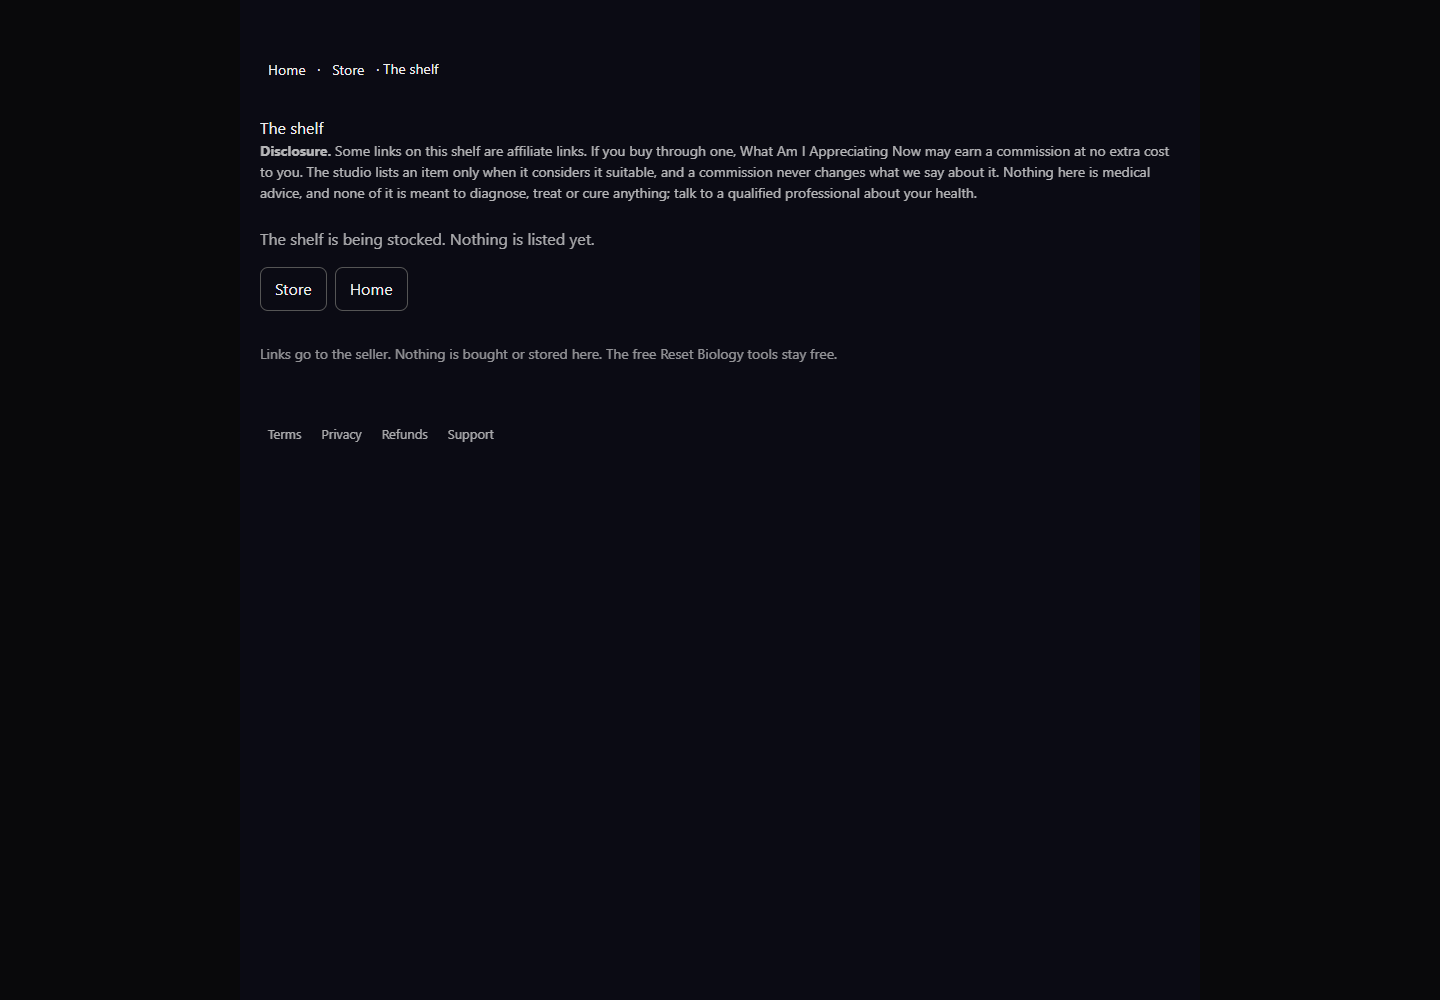
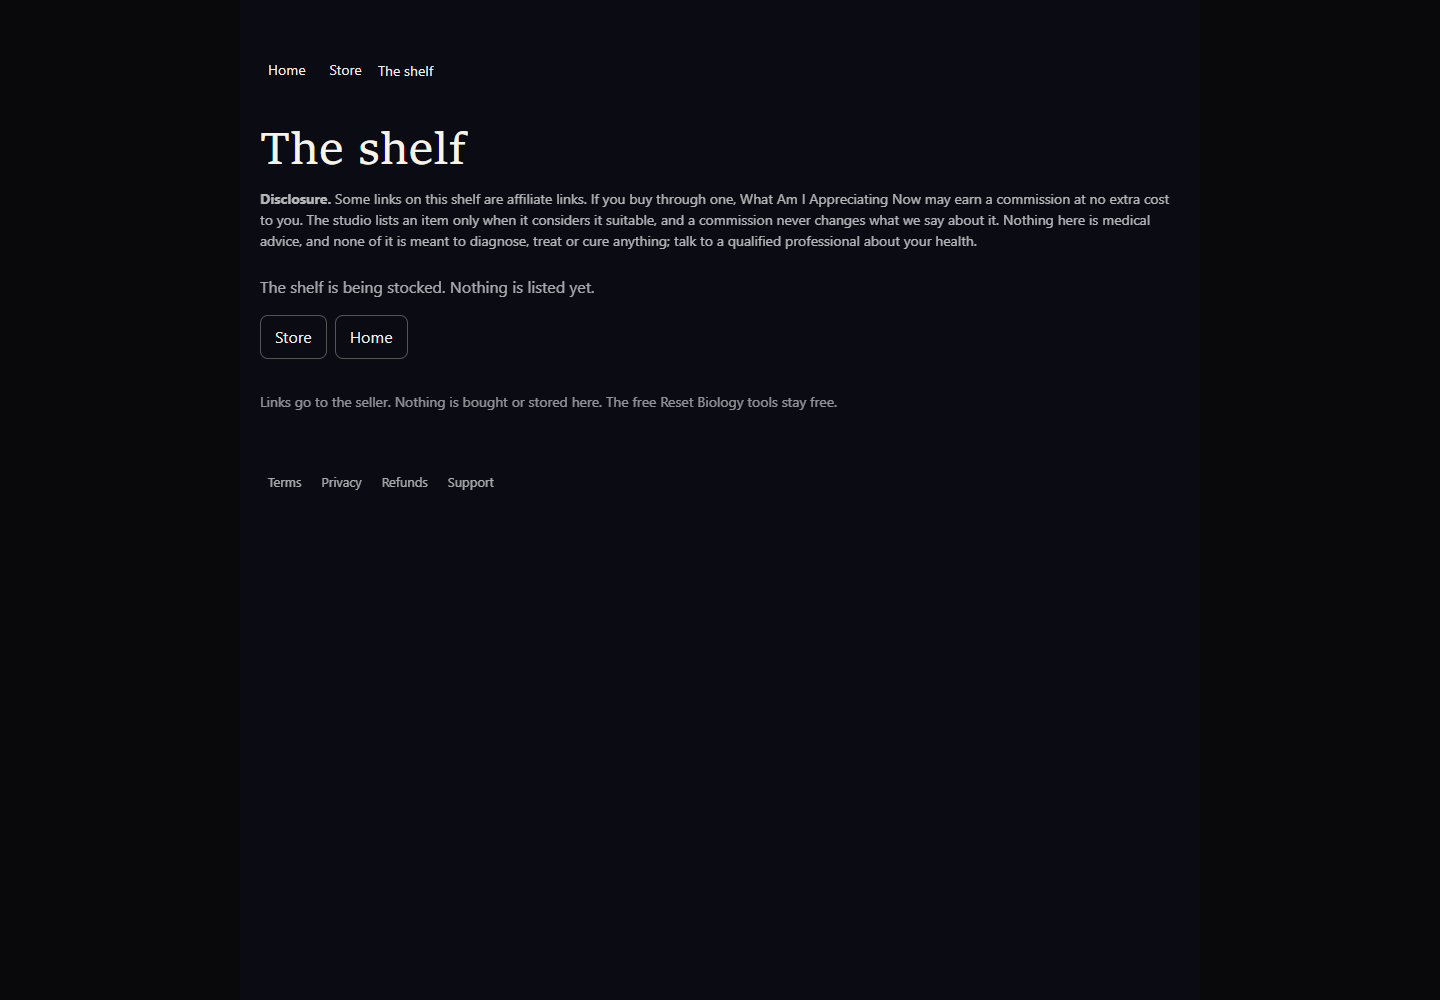
fix(waia): polish store handoff
Claude-Session: https://claude.ai/code/session_01QwUeFZBaQq6HvUEKRg1tbb

diff --git a/public/waia-store-support.js b/public/waia-store-support.js
@@ -20,12 +20,36 @@
   var form = document.getElementById('intake-form');
   if (!form) return;
   var out = document.getElementById('intake-echo');
-  function show(heading, lines, link) {
+  function show(heading, lines, link, reference) {
     out.textContent = '';
     var h = document.createElement('h3');
     h.textContent = heading;
     out.appendChild(h);
     lines.forEach(function (t) { var p = document.createElement('p'); p.textContent = t; out.appendChild(p); });
+    if (reference) {
+      var referenceLine = document.createElement('p');
+      referenceLine.append('Keep this reference to check on your request: ');
+      var code = document.createElement('code');
+      code.textContent = reference;
+      referenceLine.appendChild(code);
+      var copy = document.createElement('button');
+      copy.type = 'button'; copy.className = 'copy-reference'; copy.textContent = 'Copy reference';
+      copy.addEventListener('click', function () {
+        var selectReference = function () {
+          var range = document.createRange();
+          range.selectNodeContents(code);
+          var selection = window.getSelection();
+          selection.removeAllRanges(); selection.addRange(range);
+        };
+        if (!navigator.clipboard || !navigator.clipboard.writeText) { selectReference(); return; }
+        navigator.clipboard.writeText(reference).then(function () {
+          copy.textContent = 'Copied';
+          window.setTimeout(function () { copy.textContent = 'Copy reference'; }, 2000);
+        }).catch(selectReference);
+      });
+      referenceLine.appendChild(copy);
+      out.appendChild(referenceLine);
+    }
     if (link) {
       var a = document.createElement('a');
       a.href = link; a.textContent = 'Check on your request';
@@ -52,9 +76,8 @@
       if (!res.ok) { show('Not yet', [res.body.error || 'That did not go through. Please try again.']); return; }
       form.reset();
       show('Request received', [r.kind + ': ' + r.details,
-        'Keep this reference to check on your request: ' + res.body.reference,
         'Nothing has been charged. You will see a quote there when one is ready, and you can accept or decline it.'],
-        '/store/custom-order#ref=' + encodeURIComponent(res.body.reference));
+        '/store/custom-order#ref=' + encodeURIComponent(res.body.reference), res.body.reference);
     }).catch(function () { show('Not yet', ['That did not go through. Please try again.']); });
   });
 })(typeof window !== 'undefined' ? window : globalThis);

diff --git a/public/waia-store.html b/public/waia-store.html
@@ -113,9 +113,12 @@
   .intake button { margin-top: 1rem; background: var(--gold); color: var(--ground-deep); border: 0; border-radius: 999px; padding: 0.6rem 1.4rem; font: inherit; cursor: pointer; }
   .intake .echo { margin-top: 1rem; border-top: 1px solid #ffffff14; padding-top: 0.8rem; white-space: pre-wrap; overflow-wrap: anywhere; }
   .intake .echo h3 { margin: 0; font-family: var(--display); font-weight: 400; color: var(--ink-bright); }
+  .intake .copy-reference { min-height: 44px; margin-left: 0.5rem; }
   .fine { font-size: 0.82rem; color: var(--ink-dim); }
   .proposed-price { display: var(--proposed-price-display); }
   .footer-links { display: flex; flex-wrap: wrap; justify-content: center; gap: 0 0.35rem; }
+  .outbound-links { display: flex; flex-wrap: wrap; gap: 0 0.35rem; }
+  .outbound-links a { display: inline-block; min-height: 44px; padding: 10px 8px; line-height: 24px; vertical-align: middle; }
 </style>
 </head>
 <body data-waia-page="store">
@@ -186,7 +189,7 @@
   <section id="free-tools">
     <h2>Free tools from Reset Biology</h2>
     <p><a href="https://resetbiology.com/" rel="noopener" data-crosslink="reset-biology">Reset Biology</a> offers a peptide tracker and self-help tools that are free and stay free. It takes no money, and nothing on it is sold from this page.</p>
-    <p><a href="https://resetbiology.com/" rel="noopener" data-crosslink="reset-biology">Visit Reset Biology</a> &middot; <a href="https://resetbiology.com/education" rel="noopener" data-crosslink="reset-biology-education">Reset Biology education</a></p>
+    <p class="outbound-links"><a href="https://resetbiology.com/" rel="noopener" data-crosslink="reset-biology">Visit Reset Biology</a><a href="https://resetbiology.com/education" rel="noopener" data-crosslink="reset-biology-education">Reset Biology education</a></p>
     <p class="fine">These are plain outbound links to a separate site. What Am I Appreciating Now earns nothing from them.</p>
   </section>
 

diff --git a/src/app/patrons/page.tsx b/src/app/patrons/page.tsx
@@ -23,8 +23,9 @@ export default async function PatronsPage() {
   const shell = { maxWidth: 720, margin: '0 auto', padding: '48px 20px', color: '#eee', background: '#0b0b14', minHeight: '100vh', fontFamily: 'system-ui, sans-serif' } as const;
   return (
     <main style={shell}>
-      <nav aria-label="Site navigation" style={{ fontSize: 14, marginBottom: 24 }}>
-        <a href="/" style={{ color: 'inherit' }}>Home</a> · <a href="/store" style={{ color: 'inherit' }}>Store</a>
+      <nav aria-label="Site navigation" style={{ alignItems: 'center', display: 'flex', flexWrap: 'wrap', fontSize: 14, gap: 8, marginBottom: 24 }}>
+        <a href="/" style={{ color: 'inherit' }}>Home</a>
+        <a href="/store" style={{ color: 'inherit' }}>Store</a>
       </nav>
       <h1>Patron wall</h1>
       {/* Copy v2 (Voss/NEPQ, 2026-10-19): NEPQ situation question opens on the reader, then the fact. v1: docs/COPY-V2-VOSS-NEPQ-2026-10-19.md */}
@@ -53,7 +54,7 @@ export default async function PatronsPage() {
       ))}
       {/* Technique: Voss no-oriented question before the link, so "no" stays a safe answer. */}
       <p>Would you be opposed to seeing your own name behind the orb?</p>
-      <p><a href="/patrons/join" style={{ color: '#c9b3ff' }}>Add your name</a> · <a href="/patrons/remove" style={{ color: '#c9b3ff' }}>Remove my name</a></p>
+      <p style={{ display: 'flex', flexWrap: 'wrap', gap: 8 }}><a href="/patrons/join" style={{ color: '#c9b3ff' }}>Add your name</a><a href="/patrons/remove" style={{ color: '#c9b3ff' }}>Remove my name</a></p>
     </main>
   );
 }

diff --git a/src/app/about/page.tsx b/src/app/about/page.tsx
@@ -9,8 +9,9 @@ export const metadata = {
 export default function AboutPage() {
   return (
     <main style={{ maxWidth: 720, margin: '0 auto', padding: '48px 20px', color: '#eee', background: '#0b0b14', minHeight: '100vh', fontFamily: 'system-ui, sans-serif' }}>
-      <nav aria-label="Site navigation" style={{ fontSize: 14, marginBottom: 24 }}>
-        <a href="/" style={{ color: 'inherit' }}>Home</a> · <a href="/store" style={{ color: 'inherit' }}>Store</a>
+      <nav aria-label="Site navigation" style={{ alignItems: 'center', display: 'flex', flexWrap: 'wrap', fontSize: 14, gap: 8, marginBottom: 24 }}>
+        <a href="/" style={{ color: 'inherit' }}>Home</a>
+        <a href="/store" style={{ color: 'inherit' }}>Store</a>
       </nav>
       <p><a href="/" style={{ color: 'inherit' }}>← What Am I Appreciating Now</a></p>
       <h1>About</h1>
@@ -22,8 +23,8 @@ export default function AboutPage() {
         Email <a href={`mailto:${OPERATOR.contact}`} style={{ color: '#9cf' }}>{OPERATOR.contact}</a> with any question about the
         site, a purchase, a refund or your data.
       </p>
-      <p style={{ fontSize: 14, opacity: 0.7 }}>
-        <a href="/store" style={{ color: 'inherit' }}>Store</a> · <a href="/programs" style={{ color: 'inherit' }}>Programs</a>
+      <p style={{ display: 'flex', flexWrap: 'wrap', fontSize: 14, gap: 8, opacity: 0.7 }}>
+        <a href="/store" style={{ color: 'inherit' }}>Store</a><a href="/programs" style={{ color: 'inherit' }}>Programs</a>
       </p>
       <LegalLinks />
     </main>

diff --git a/src/app/store/shelf/page.tsx b/src/app/store/shelf/page.tsx
@@ -26,10 +26,12 @@ export default function ShelfPage() {
   const items = renderableItems(SHELF_ITEMS);
   return (
     <main style={{ maxWidth: 960, margin: '0 auto', padding: '48px 20px', color: '#eee', background: '#0b0b14', minHeight: '100vh', fontFamily: 'system-ui, sans-serif' }}>
-      <nav aria-label="Site navigation" style={{ fontSize: 14, marginBottom: 24 }}>
-        <a href="/" style={NAV_LINK_STYLE}>Home</a> · <a href="/store" style={NAV_LINK_STYLE}>Store</a> · <span aria-current="page">The shelf</span>
+      <nav aria-label="Site navigation" style={{ alignItems: 'center', display: 'flex', flexWrap: 'wrap', fontSize: 14, gap: 8, marginBottom: 24 }}>
+        <a href="/" style={NAV_LINK_STYLE}>Home</a>
+        <a href="/store" style={NAV_LINK_STYLE}>Store</a>
+        <span aria-current="page">The shelf</span>
       </nav>
-      <h1>The shelf</h1>
+      <h1 style={{ color: '#f7f3e6', fontFamily: '"Iowan Old Style", "Sitka Text", Georgia, "Times New Roman", serif', fontSize: 'clamp(1.9rem, 5vw, 3rem)', fontWeight: 400, margin: 0 }}>The shelf</h1>
       {(items.length === 0 || shelfHasCommission(items)) && (
         <p style={{ fontSize: 14, opacity: 0.75, marginBottom: 24 }} id="disclosure"><strong>Disclosure.</strong> {DISCLOSURE}</p>
       )}

diff --git a/src/app/listen/page.tsx b/src/app/listen/page.tsx
@@ -21,7 +21,7 @@ export default function ListenPage() {
         Not medical advice or therapy. Do not listen while driving, operating machinery, or anywhere you need to stay alert. Voice: Jonathan Hyatt&rsquo;s own, rendered from his recordings with a voice clone.
         Words: Reset Biology, &ldquo;Reset Your Relationship with Food&rdquo;.
       </p>
-      <p style={{ marginTop: 24 }}><a href="/" style={{ ...NAV_LINK_STYLE, boxSizing: 'border-box', color: '#cf9d4f' }}>Back to home</a> · <a href="/programs/advanced-hypnosis-sessions" style={{ ...NAV_LINK_STYLE, boxSizing: 'border-box', color: '#cf9d4f' }}>The video version</a></p>
+      <p style={{ display: 'flex', flexWrap: 'wrap', gap: 8, marginTop: 24 }}><a href="/" style={{ ...NAV_LINK_STYLE, boxSizing: 'border-box', color: '#cf9d4f' }}>Back to home</a><a href="/programs/advanced-hypnosis-sessions" style={{ ...NAV_LINK_STYLE, boxSizing: 'border-box', color: '#cf9d4f' }}>The video version</a></p>
       <WaiaFooter />
     </main>
   );

diff --git a/src/app/patrons/remove/page.tsx b/src/app/patrons/remove/page.tsx
@@ -9,8 +9,9 @@ export default function RemovePage() {
   const field = { display: 'block', width: '100%', padding: 10, margin: '6px 0 16px', background: '#14142a', color: '#eee', border: '1px solid #8c8c9e', borderRadius: 8 } as const;
   return (
     <main style={{ maxWidth: 720, margin: '0 auto', padding: '48px 20px', color: '#eee', background: '#0b0b14', minHeight: '100vh', fontFamily: 'system-ui, sans-serif' }}>
-      <nav aria-label="Site navigation" style={{ fontSize: 14, marginBottom: 24 }}>
-        <a href="/" style={{ color: 'inherit' }}>Home</a> · <a href="/store" style={{ color: 'inherit' }}>Store</a>
+      <nav aria-label="Site navigation" style={{ alignItems: 'center', display: 'flex', flexWrap: 'wrap', fontSize: 14, gap: 8, marginBottom: 24 }}>
+        <a href="/" style={{ color: 'inherit' }}>Home</a>
+        <a href="/store" style={{ color: 'inherit' }}>Store</a>
       </nav>
       <h1>Remove my name from the patron wall</h1>
       <div role="status">

diff --git a/src/app/not-found.tsx b/src/app/not-found.tsx
@@ -1,8 +1,10 @@
 export default function NotFound() {
   return (
     <main style={{ maxWidth: 720, margin: '0 auto', padding: '48px 20px', color: '#eee', background: '#0b0b14', minHeight: '100vh', fontFamily: 'system-ui, sans-serif', lineHeight: 1.6 }}>
-      <nav aria-label="Site navigation" style={{ fontSize: 14, marginBottom: 48 }}>
-        <a href="/" style={{ color: 'inherit' }}>Home</a> · <a href="/store" style={{ color: 'inherit' }}>Store</a> · <a href="/support" style={{ color: 'inherit' }}>Support</a>
+      <nav aria-label="Site navigation" style={{ alignItems: 'center', display: 'flex', flexWrap: 'wrap', fontSize: 14, gap: 8, marginBottom: 48 }}>
+        <a href="/" style={{ color: 'inherit' }}>Home</a>
+        <a href="/store" style={{ color: 'inherit' }}>Store</a>
+        <a href="/support" style={{ color: 'inherit' }}>Support</a>
       </nav>
       <p style={{ fontSize: 14, opacity: 0.7 }}>What Am I Appreciating Now</p>
       <h1>Page not found</h1>

diff --git a/src/app/patrons/join/page.tsx b/src/app/patrons/join/page.tsx
@@ -10,8 +10,9 @@ export const metadata = {
 export default function JoinPage() {
   return (
     <main style={{ maxWidth: 720, margin: '0 auto', padding: '48px 20px', color: '#eee', background: '#0b0b14', minHeight: '100vh', fontFamily: 'system-ui, sans-serif' }}>
-      <nav aria-label="Site navigation" style={{ fontSize: 14, marginBottom: 24 }}>
-        <a href="/" style={{ color: 'inherit' }}>Home</a> · <a href="/store" style={{ color: 'inherit' }}>Store</a>
+      <nav aria-label="Site navigation" style={{ alignItems: 'center', display: 'flex', flexWrap: 'wrap', fontSize: 14, gap: 8, marginBottom: 24 }}>
+        <a href="/" style={{ color: 'inherit' }}>Home</a>
+        <a href="/store" style={{ color: 'inherit' }}>Store</a>
       </nav>
       <h1>Join the patron wall</h1>
       {/* Copy v2 (Voss/NEPQ, 2026-10-19): calibrated "which" question opens on the reader; the steps follow. v1: docs/COPY-V2-VOSS-NEPQ-2026-10-19.md */}

diff --git a/src/app/store/bundles/page.tsx b/src/app/store/bundles/page.tsx
@@ -12,8 +12,9 @@ export const metadata = {
 export default function BundlesPage() {
   return (
     <main style={{ maxWidth: 720, margin: '0 auto', padding: '48px 20px', color: '#eee', background: '#0b0b14', minHeight: '100vh', fontFamily: 'system-ui, sans-serif' }}>
-      <nav aria-label="Site navigation" style={{ fontSize: 14, marginBottom: 24 }}>
-        <a href="/" style={NAV_LINK_STYLE}>Home</a> · <a href="/store" style={NAV_LINK_STYLE}>Store</a>
+      <nav aria-label="Site navigation" style={{ alignItems: 'center', display: 'flex', flexWrap: 'wrap', fontSize: 14, gap: 8, marginBottom: 24 }}>
+        <a href="/" style={NAV_LINK_STYLE}>Home</a>
+        <a href="/store" style={NAV_LINK_STYLE}>Store</a>
       </nav>
       <h1>Gifts and bundles</h1>
       {/* Copy v2 (Voss/NEPQ, 2026-10-19): NEPQ situation question opens on the reader. v1: docs/COPY-V2-VOSS-NEPQ-2026-10-19.md */}

diff --git a/src/app/support/page.tsx b/src/app/support/page.tsx
@@ -25,8 +25,9 @@ export default async function SupportPage() {
   const hasPurchase = await browserHasPurchase();
   return (
     <main style={{ maxWidth: 720, margin: '0 auto', padding: '48px 20px', color: '#eee', background: '#0b0b14', minHeight: '100vh', fontFamily: 'system-ui, sans-serif', lineHeight: 1.6 }}>
-      <nav aria-label="Site navigation" style={{ fontSize: 14, marginBottom: 24 }}>
-        <a href="/" style={NAV_LINK_STYLE}>Home</a> · <a href="/store" style={NAV_LINK_STYLE}>Store</a>
+      <nav aria-label="Site navigation" style={{ alignItems: 'center', display: 'flex', flexWrap: 'wrap', fontSize: 14, gap: 8, marginBottom: 24 }}>
+        <a href="/" style={NAV_LINK_STYLE}>Home</a>
+        <a href="/store" style={NAV_LINK_STYLE}>Store</a>
       </nav>
       <p><a href="/" style={{ color: 'inherit' }}>← What Am I Appreciating Now</a></p>
       <h1>Support</h1>

diff --git a/src/app/legal/[doc]/page.tsx b/src/app/legal/[doc]/page.tsx
@@ -82,8 +82,9 @@ export default async function LegalPage({ params }: { params: Promise<{ doc: str
   if (!meta) notFound();
   return (
     <main style={{ maxWidth: 720, margin: '0 auto', padding: '48px 20px', color: '#eee', background: '#0b0b14', minHeight: '100vh', fontFamily: 'system-ui, sans-serif', lineHeight: 1.6 }}>
-      <nav aria-label="Site navigation" style={{ fontSize: 14, marginBottom: 24 }}>
-        <a href="/" style={NAV_LINK_STYLE}>Home</a> · <a href="/store" style={NAV_LINK_STYLE}>Store</a>
+      <nav aria-label="Site navigation" style={{ alignItems: 'center', display: 'flex', flexWrap: 'wrap', fontSize: 14, gap: 8, marginBottom: 24 }}>
+        <a href="/" style={NAV_LINK_STYLE}>Home</a>
+        <a href="/store" style={NAV_LINK_STYLE}>Store</a>
       </nav>
       <p><a href="/" style={NAV_LINK_STYLE}>← Programs</a></p>
       <h1>{meta.title}</h1>
